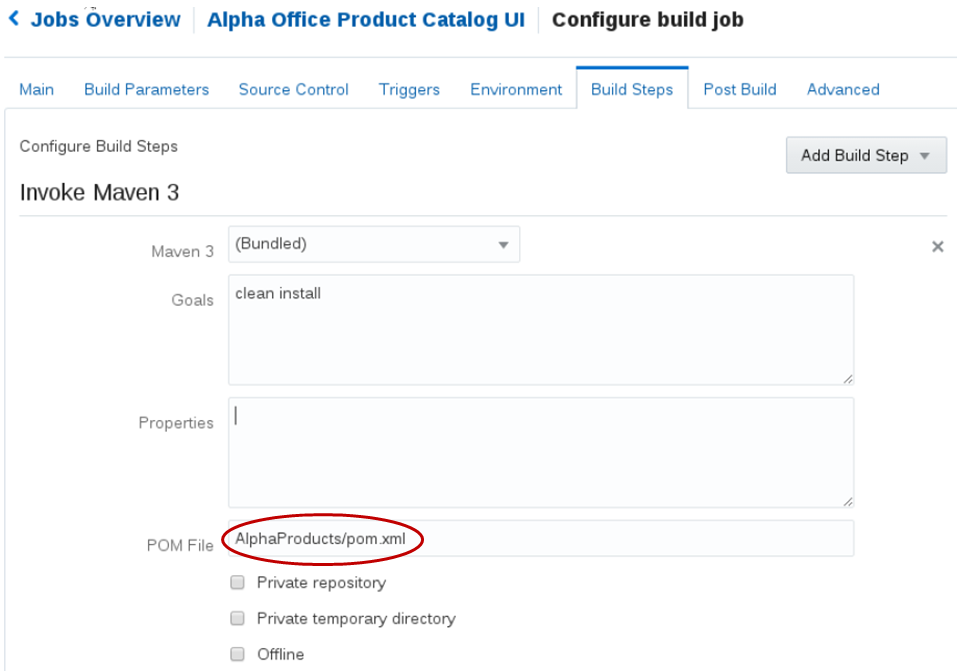
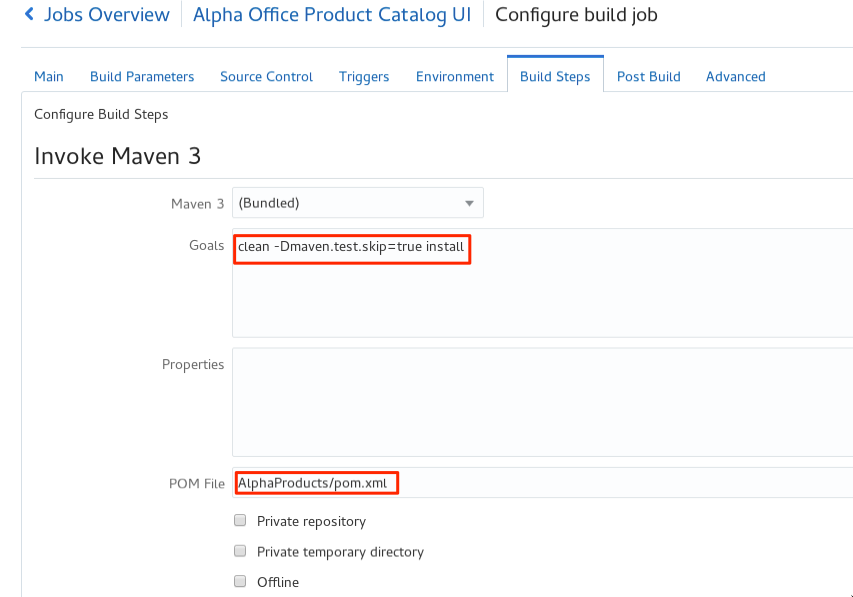
Multiple modifications after end-to-end test of lab 300.

diff --git a/workshops/jcs-devops/JCSPipelineStackManager300.md b/workshops/jcs-devops/JCSPipelineStackManager300.md
@@ -1,6 +1,6 @@
 # DevOps: JCS Pipeline Using Oracle Stack Manager
 
-![](images/300/Picture300-title.png)
+![](images/300/Picture300-title.png)  
 
 Update: October 14, 2017
 
@@ -29,11 +29,11 @@ In the first lab (100), the Project Manager created a new project in the Develop
 
 Although you will remain connected to the Oracle Cloud using the user account you were provided, you are to take on the Persona of ***John Dunbar*** as you perform the following steps. John is our Java developer who will be making the enhancements to our product catalog UI.
 
-![](images/john.png)
+![](images/john.png)  
 
 ### **STEP 1:** Update Issue Status
 
-- Click on the **AlphaOffice** Board **Active Sprints**.
+- From the Developer Cloud console, click on the **AlphaOffice** Agile Board **Active Sprints**.
 
     ![](images/300/Picture300-1.png)
 
@@ -75,11 +75,11 @@ Although you will remain connected to the Oracle Cloud using the user account yo
 
 Now that we have the source code in our managed GIT repository, we need to create a build process that will be triggered whenever a commit is made to the master branch. We will set up a Maven build process in this section.
 
-- On navigation panel click **Build** to access the build page and click **New Job**.
+- On navigation panel, click **Build** to access the build page and click **New Job**.
 
     ![](images/300/Picture300-7.png)
 
-- In the New Job popup enter **Alpha Office Product Catalog UI** for the Job Name, and then click **Save**.
+- In the New Job popup enter `Alpha Office Product Catalog UI` for the Job Name, and then click **Save**.
 
     ![](images/300/Picture300-8.png)
 
@@ -97,7 +97,7 @@ Now that we have the source code in our managed GIT repository, we need to creat
 
 - Click the **Triggers** tab. Select **Based on SCM polling schedule**.
 
-    ![](images/300/Picture300-12.png)
+    ![](images/300/Picture300-12.png)    
 
 - Click the **Build Steps** tab. Click **Add Build Step**, and select **Invoke Maven 3**.
 
@@ -106,7 +106,9 @@ Now that we have the source code in our managed GIT repository, we need to creat
 - In the Maven Build Step set the following:
 
     **Goal**: `clean -Dmaven.test.skip=true install`
+
     (Note: This new Goal will allow integration tests to be run after the deployment of the application)
+
     **POM File**: `AlphaProducts/pom.xml`
 
     ![](images/300/Picture300-14.png)
@@ -119,7 +121,7 @@ Now that we have the source code in our managed GIT repository, we need to creat
 
 - Click the **Build Now** button to start the build. This will trigger for the build to be placed in the build queue.
 
-- Click on the **Jobs Overview** link to return to the jobs dashboard.
+- Click on the **Jobs Overview** link to return to the jobs dashboard. 
 
     ![](images/300/Picture300-16.5.png)
 
@@ -127,7 +129,7 @@ Now that we have the source code in our managed GIT repository, we need to creat
 
     ![](images/300/Picture300-16.6.png)
 
-- Once the build has completed, you should see a green check next to the build name.  Wait for the build to complete before continuing to the next step, as we need the build artifact to complete the deployment configuration.
+- Once the build has completed, you should see a green check next to the build name.  **Wait for the build to complete*** before continuing to the next step, as we need the build artifact to complete the deployment configuration.
 
     ![](images/300/Picture300-16.7.png)
 
@@ -165,7 +167,7 @@ Before we can configure deployment of our application we need to make note of th
 
     ![](images/300/Picture300-23.png)
 
-- To the right of the Deployment Target, click **New** and select **Java Cloud Service**
+- To the right of the Deployment Target, click **New** and select **Java Cloud Service**    
 
     ![](images/300/Picture300-24.png)
 
@@ -292,7 +294,7 @@ Our next activity is to work on the defect issue that has been assigned to us. W
 
 - click the **Issues** to expand, then double click on **Mine** to expand your list. Once you see the list of your Issues, then double click on **Add dollar sign in the display of the price**.
 
-    ![](images/300/Picture300-46.png)
+    ![](images/300/Picture300-46.png)   
 
 - Scroll down to the bottom of the **Add dollar sign in the display of the price** window. In the **Actions section**, and change the Actions to **Accept (change status to ASSIGNED)**, then click on **Submit**.
 
@@ -313,11 +315,11 @@ Our next activity is to work on the defect issue that has been assigned to us. W
 
     ![](images/300/Picture300-50.png)
 
-- Expand **AlpahProducts > WebContent** then double click on **displayrecords.jsp**
+- Expand **AlphaProducts > WebContent** then double click on **displayrecords.jsp**
 
     ![](images/300/Picture300-51.png)
 
-- On line 20 of **displayrecords.jsp** add **$** after the Price and click **Save All** ![](images/SaveAll.png)
+- On line 20 of **displayrecords.jsp** add **$** after the Price and click **Save All** ![](images/SaveAll.png). Note: The line number is displayed at the bottom right-hand side of the Eclipse window.
 
     ![](images/300/Picture300-52.png)
 
@@ -328,9 +330,9 @@ Our next activity is to work on the defect issue that has been assigned to us. W
 
  ![](images/300/Picture300-53.png)
 
-- Drag **displayrecords.jsp** from **Unstaged Changes** to **Staged Changes**.
+- Drag **displayrecords.jsp** from **Unstaged Changes** to **Staged Changes**. 
 
-- Enter `Added dollar sign to display of Price` for Commit Message.
+- Enter `Added dollar sign to display of Price` for Commit Message. 
 
 - Click **Commit and Push**
 
@@ -352,7 +354,7 @@ Our next activity is to work on the defect issue that has been assigned to us. W
 
 ### **STEP 13:** Create Merge request
 
-- Return to the Developer Cloud Service Dasboard in the browser. Click on **Code**. Select the **Defect4** branch and then click on the **Commits** sub tab. Now view the commit made to the branch from within Eclipse.
+- Return to the Developer Cloud Service Dasboard in the browser. Click on **Code**. Select the **Defect4** from the branch selection dropdown, and then click on the **Logs** sub tab. Now view the commit made to the branch from within Eclipse.
 
     ![](images/300/Picture300-58.png)
 
@@ -404,7 +406,7 @@ Our next activity is to work on the defect issue that has been assigned to us. W
 
 ### **STEP 15:** Monitor Build and Deloyment
 
-- Now that the code has been commited to the master branch, I may take a minute or two, but the build and deployment will automatically start. On the navigation panel click **Build**, and you should see **Alpha Office Product Catalog UI** in the queue.
+- Now that the code has been commited to the master branch, ***it may take a minute or two***, but the build and deployment will automatically start. On the navigation panel click **Build**, and you should see **Alpha Office Product Catalog UI** in the queue.
 
     ![](images/300/Picture300-66.png)
 
